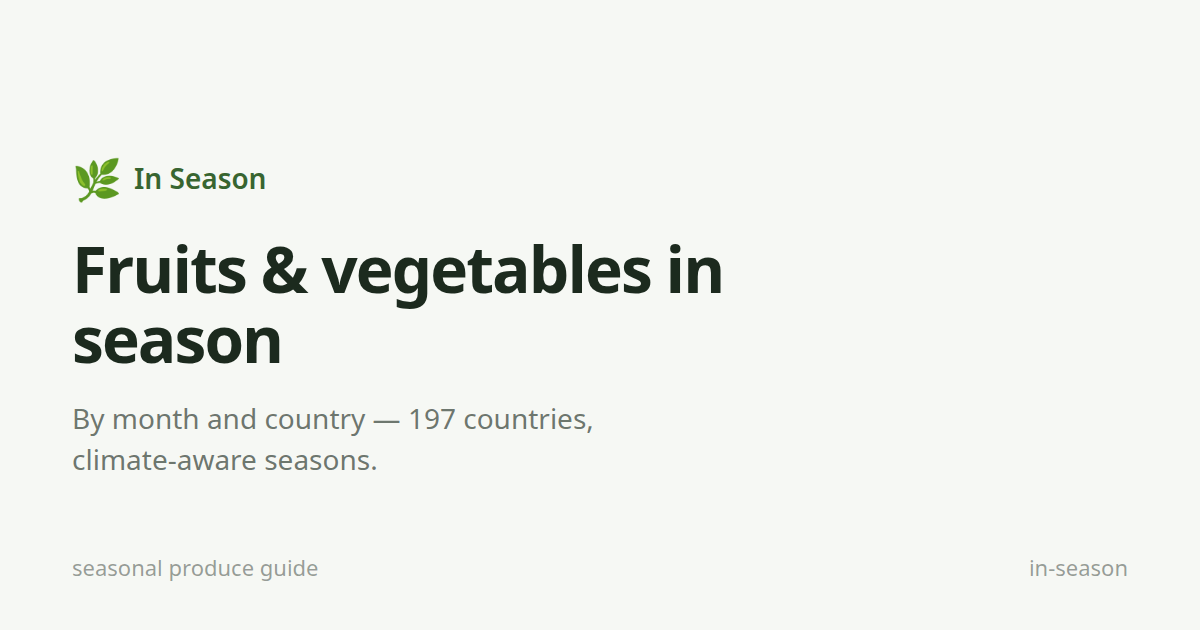
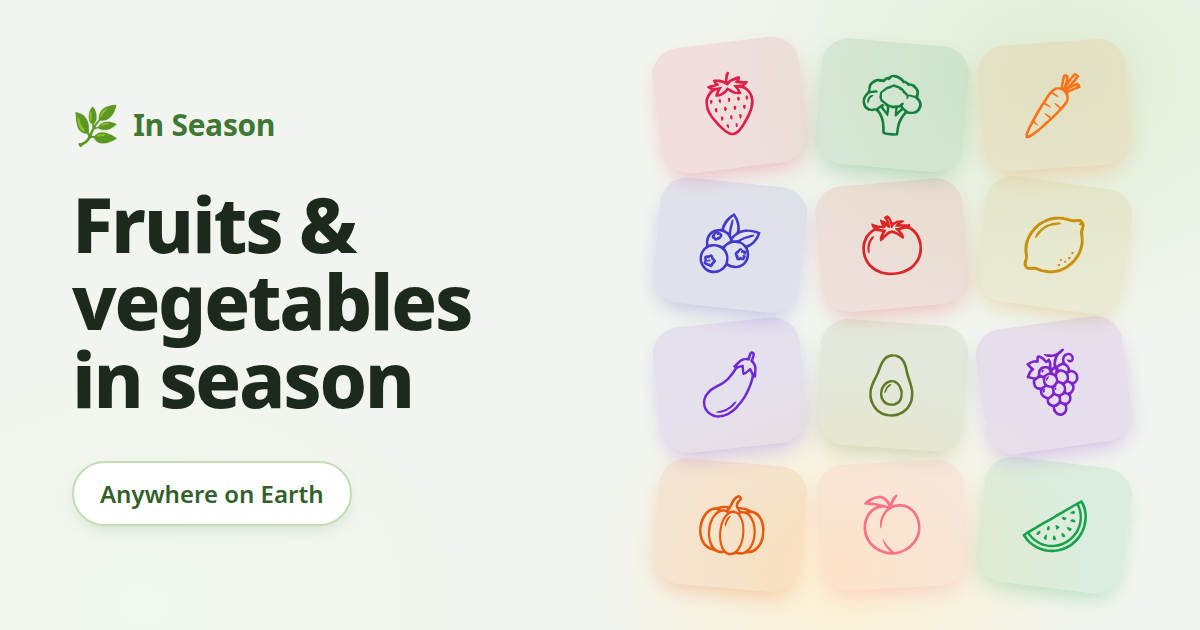
Add regenerable social share image script

diff --git a/README.md b/README.md
@@ -36,6 +36,7 @@ npm run dev
 | `npm run build` | Client build → SSR build → prerender into `dist/` |
 | `npm run lint` | oxlint |
 | `npm run check:data` | Validate countries/produce JSON |
+| `npm run og` | Regenerate the social share image (`public/og.png`) |
 | `npm run preview` | Preview the production build |
 
 ### Production build URL
